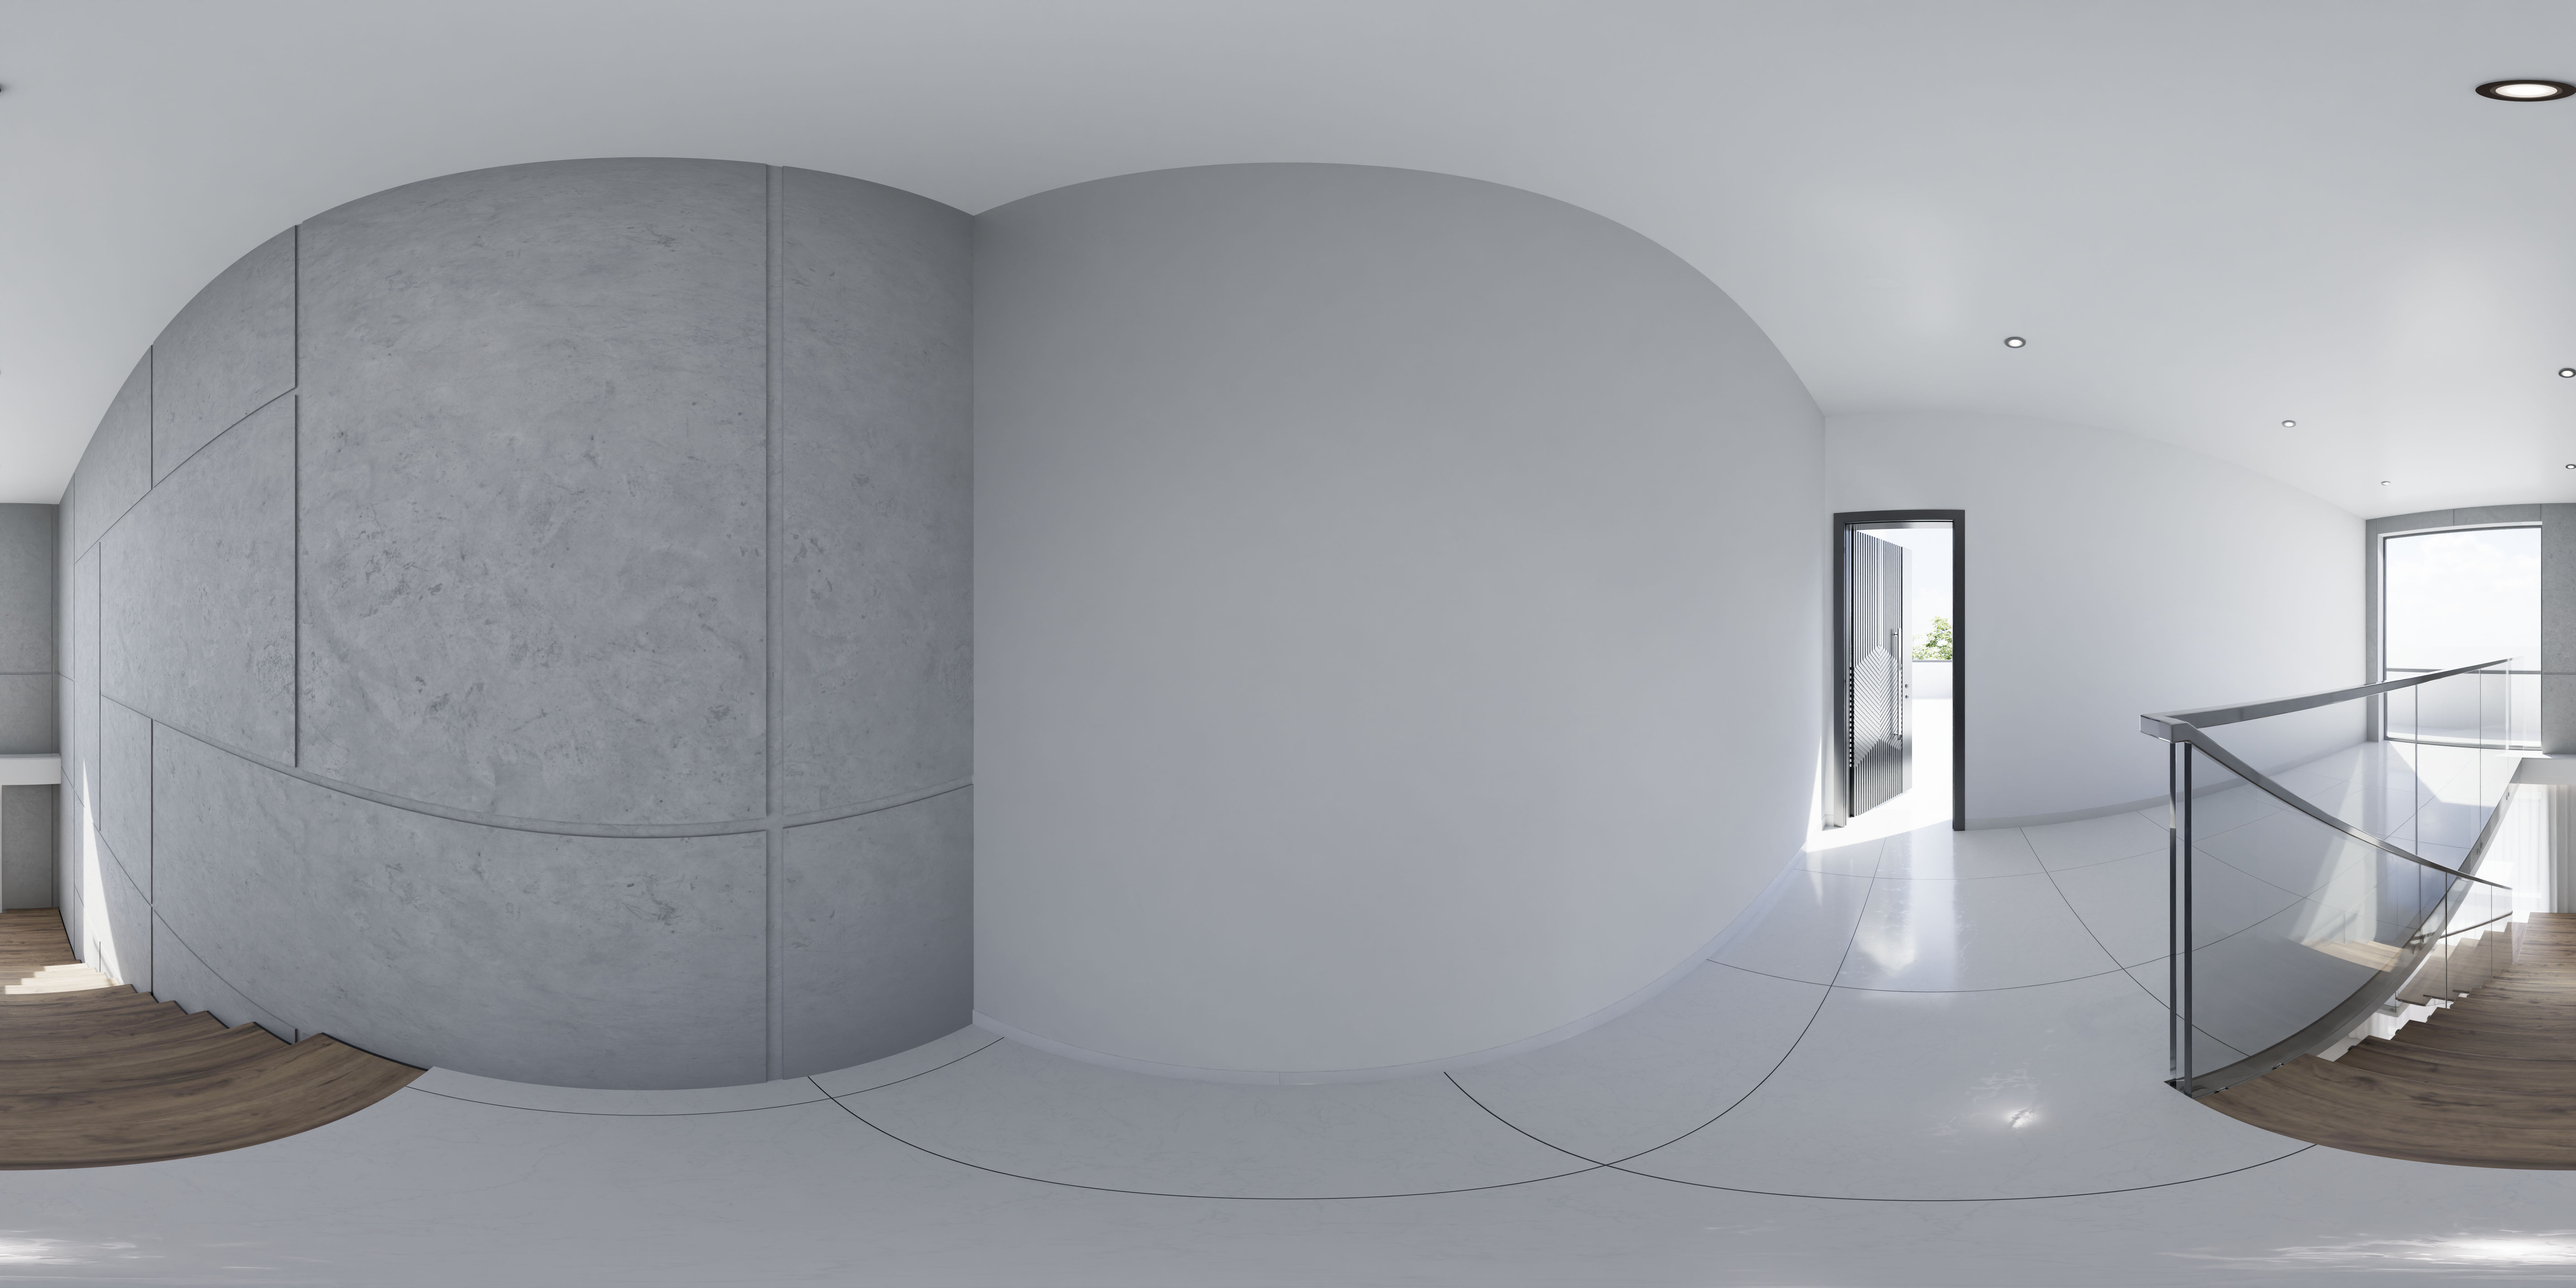
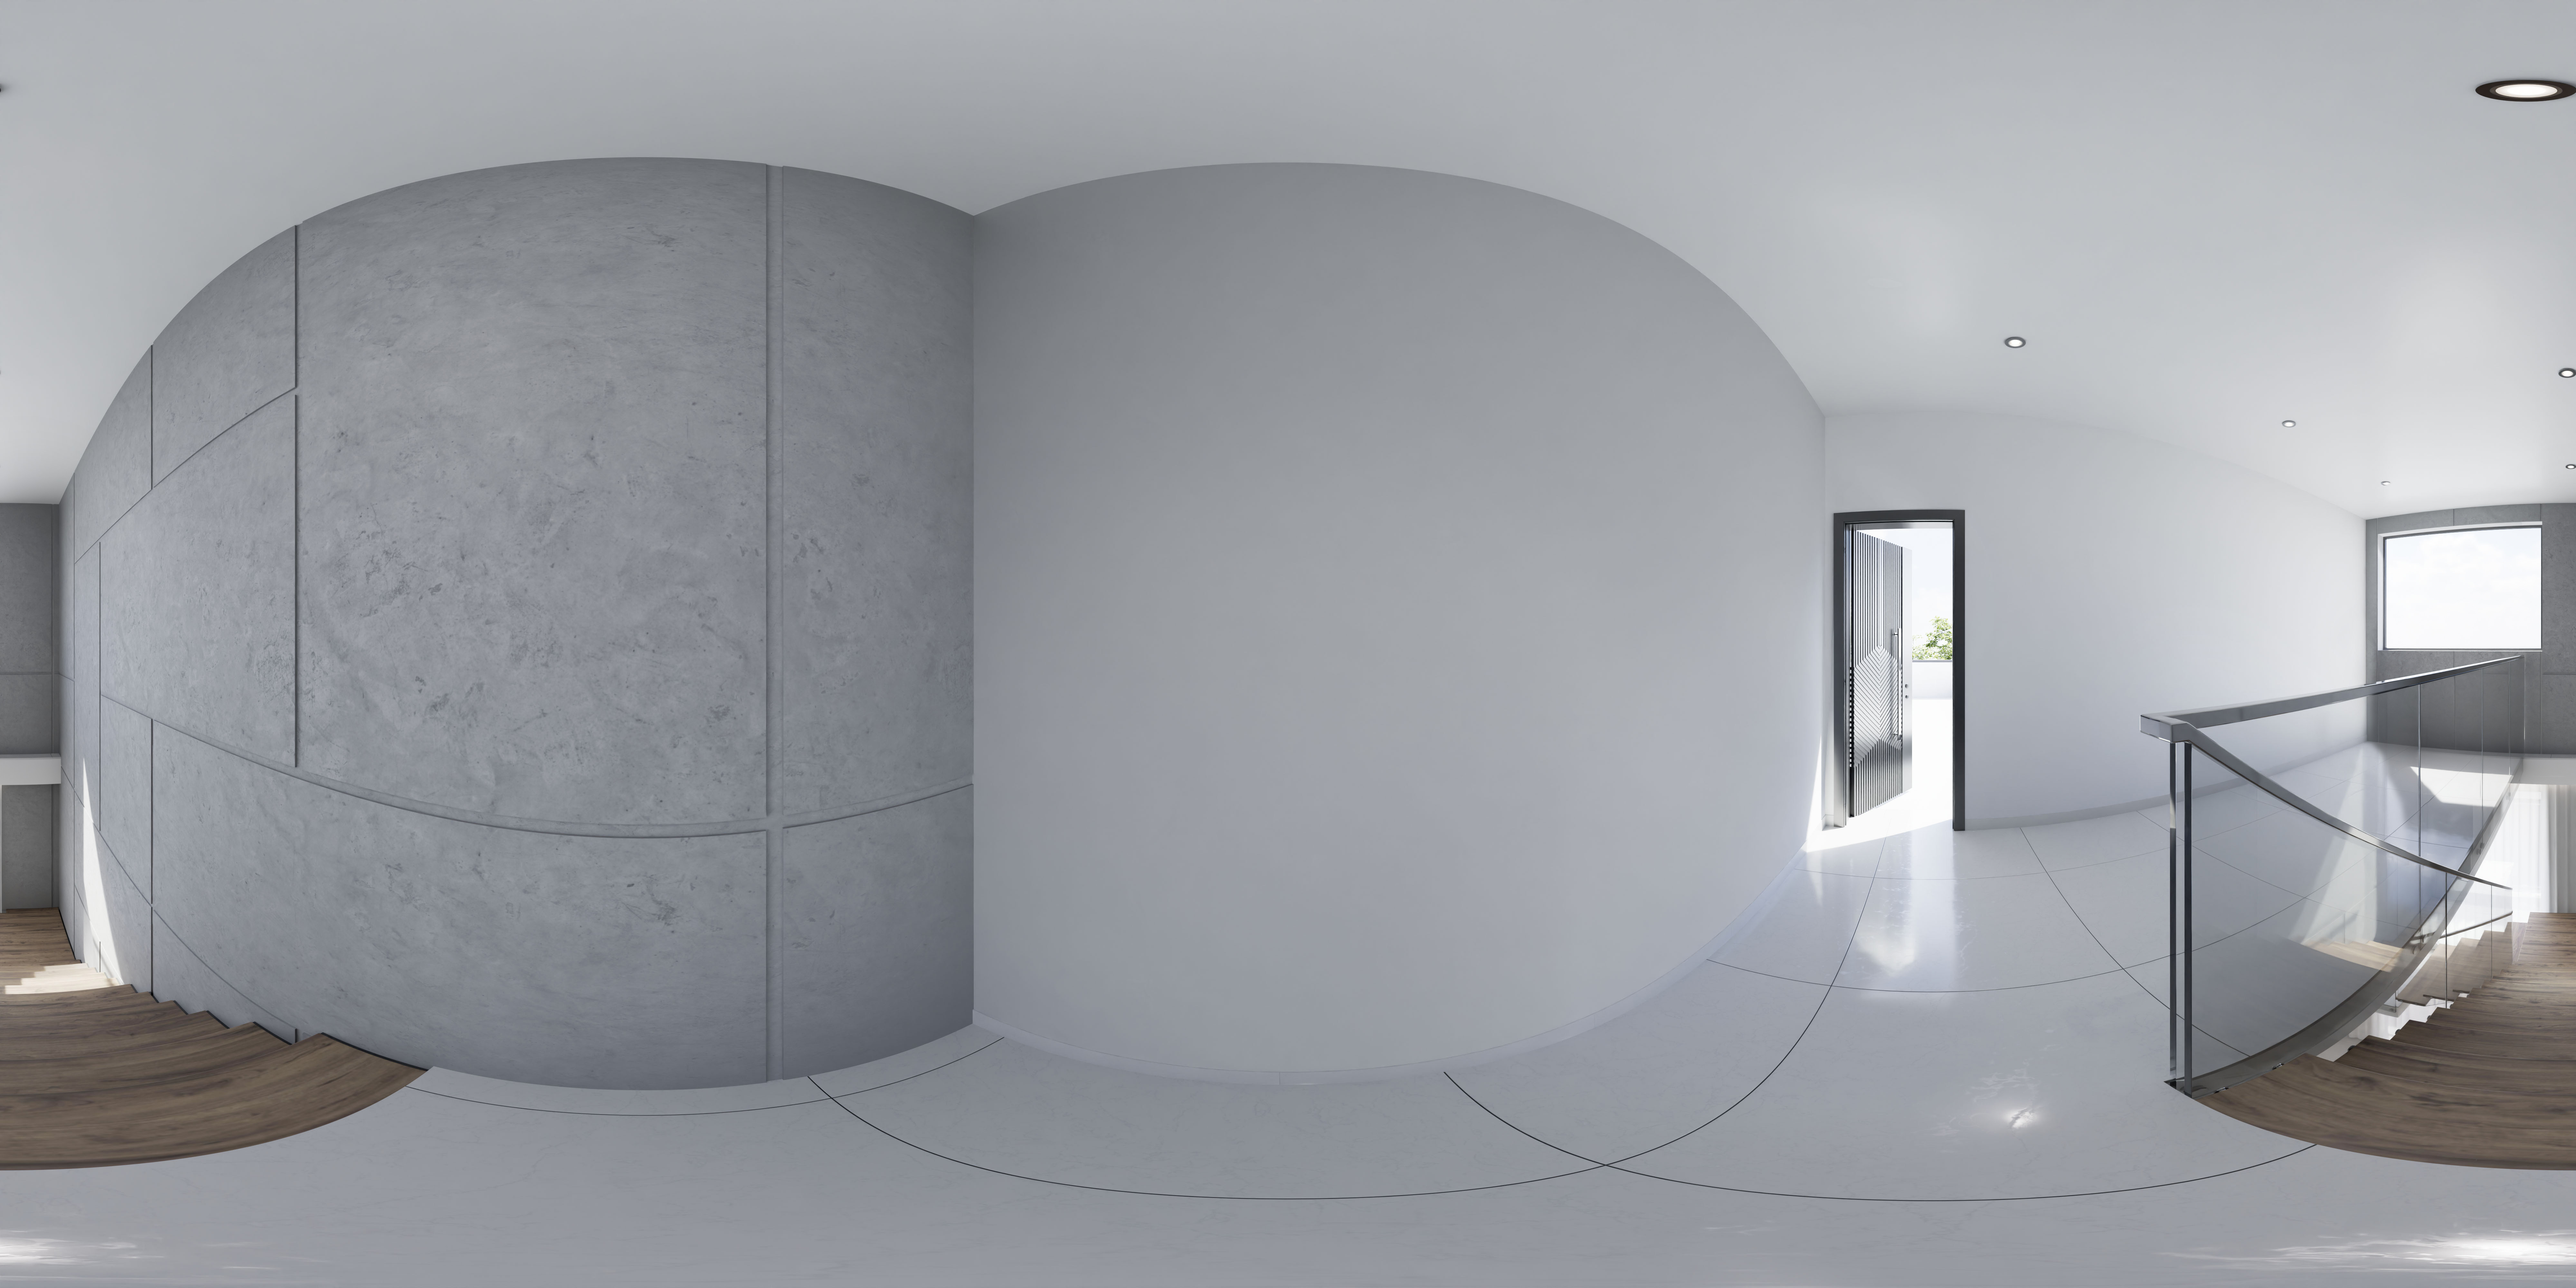
adding New Images-8

Changed region(s): [[0.9062, 0.4062, 1.0, 0.6562], [0.0, 0.375, 0.0312, 0.625]]

diff --git a/index.html b/index.html
@@ -146,6 +146,7 @@
         <img id="Scene-80" src="./Style/Images/Scene-80.jpg" />
         <img id="Scene-81" src="./Style/Images/Scene-81.jpg" />
         <img id="Scene-82" src="./Style/Images/Scene-82.jpg" />
+        <img id="Scene-85" src="./Style/Images/Scene-85.jpg" />
       </a-assets>
 
       <a-entity
@@ -2036,7 +2037,7 @@
           material="src: #Arrow-2; transparent:true"
           position="1.02116 -1.36315 -0.66589"
           rotation="-74.16594883291428 -81.68258214723555 -8.72786609322783"
-          the_dote="Name_of_dote: Dote-67 ; Group_to_activate: Group-67 ; The_rotation: 0"
+          the_dote="Name_of_dote: Dote-85 ; Group_to_activate: Group-85 ; The_rotation: 0"
         >
         </a-plane>
         <a-plane
@@ -2421,6 +2422,20 @@
         >
         </a-plane>
       </a-entity>
+      <!-- Group-85 -->
+      <a-entity scale="0 0 0" class="groups" id="Group-85" visible="false">
+        <a-plane
+          data-clickable
+          scale="0.9 0.9 0.9"
+          opacity=".5"
+          class="Dote"
+          material="src: #Arrow-1; transparent:true"
+          position="-2.64154 -0.57918 0.38841"
+          rotation="-73.25952960101732 87.5611291252778 -178.31535204281968"
+          the_dote="Name_of_dote: Dote-66; Group_to_activate: Group-66 ; The_rotation: 0"
+        >
+        </a-plane>
+      </a-entity>
       <!-- ############################################################ -->
       <!-- ############################################################ -->
       <!-- ############################################################ -->
@@ -2734,6 +2749,9 @@
                   break;
                 case "Dote-82":
                   the_sky.setAttribute("src", "#Scene-82");
+                  break;
+                case "Dote-85":
+                  the_sky.setAttribute("src", "#Scene-85");
                   break;
                 default:
                   break;
